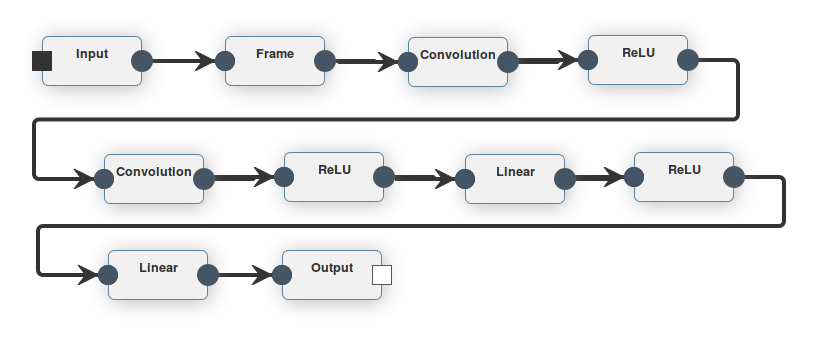
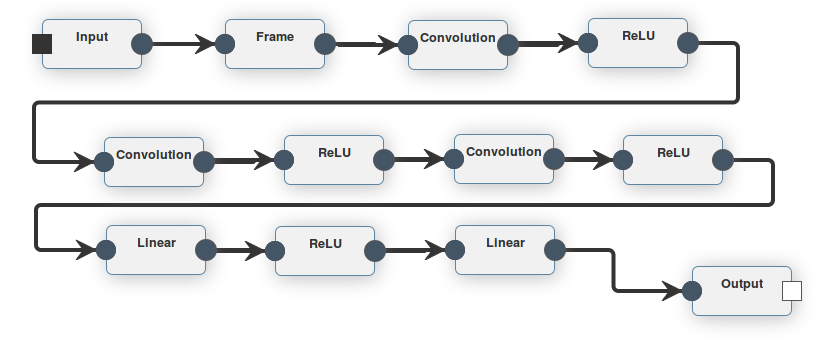
update the ALE example

diff --git a/dianne.examples.rl.ale/README.md b/dianne.examples.rl.ale/README.md
@@ -19,13 +19,13 @@ The experience pools are stored in the `experience` directory. We have specified
 	"maxSize": 10000
 }
 ```  
-There are 6 actions one can execute on the ALE environment. The state consists of 4 84x84 crops from the ALE game as specified in [1]. Depending on the memory your machine has available, you can increase the `maxSize` of your experience pool. In case memory is a limiting factor, you can also specify a `FileExperiencePool` type which will use memory-mapped files on the filesystem to store the experience samples. 
+There are 6 actions one can execute on the ALE environment. The state consists of 4 84x84 crops from the ALE game as specified in [1]. Depending on the memory your machine has available, you might want to increase the `maxSize` of your experience pool. In case memory is a limiting factor, you can also specify a `FileExperiencePool` type which will use memory-mapped files on the filesystem to store the experience samples, but this can slow down performance. 
 
 
 ## Creating a neural network
 
-We have provided a DQN neural network similar as described in [1]. The first hidden layer convolves 16 8x8 filters with stride 4, followed by a second hidden layer that convolves 32 4x4 filters with stride 2, each followed by a rectifier nonlinearity. Next a hidden layer is fully-connected with
-256 rectifier units with a final hidden layer that ends in the 6 outputs.
+We have provided a DQN neural network similar as described in [1]. The first hidden layer convolves 32 8x8 filters with stride 4, followed by a second hidden layer that convolves 64 4x4 filters with stride 2, and a third hidden layer convolves 64 3x3 filters with stride 1, each followed by a rectifier nonlinearity. Next a hidden layer is fully-connected with
+512 rectifier units with a final hidden layer that ends in the 6 outputs.
 
 ![DQN network](figures/dqn.png)
 
@@ -49,14 +49,26 @@ Point your browser to `http://localhost:8080/ale` to visualize the agent.
 Finally, start a learn job.
 
 ```
-learn DQN,DQN AtariPool strategy=DeepQLearningStrategy batchSize=32 discount=0.95 method=RMSPROP learningRate=1.0e-6 syncInterval=10000 clean=true tag=dqn
+learn DQN,DQN AtariPool strategy=DeepQLearningStrategy batchSize=32 discount=0.99 method=RMSPROP learningRate=1.0e-5 syncInterval=1000 clean=true tag=dqn
 ```
-Make sure to use the `DeepQLearningStrategy`, which requires two neural network instances, one for training and one for the target. Hence we specify DQN,DQN as neural networks. We use a batchsize of 32, discount factor of 0.95 and RMSPROP for updating the parameters. Each 10k steps we synchronize the neural network parameters with the repository, which will also synchronize the parameters with all agents (running with the same tag).
+Make sure to use the `DeepQLearningStrategy`, which requires two neural network instances, one for training and one for the target. Hence we specify DQN,DQN as neural networks. We use a batchsize of 32, discount factor of 0.99 and RMSPROP for updating the parameters. Each 1000 steps we synchronize the neural network parameters with the repository, which will also synchronize the parameters with all agents (running with the same tag).
 
 
 ## Done!
 
-Now sit back and relax. You can follow the progress in the DIANNE dashboard at `localhost:8080/dianne/dashboard`. As training proceeds you will see the Q values rise and the agent will start getting higher scores.
+Now sit back and relax. You can follow the progress in the DIANNE dashboard at `localhost:8080/dianne/dashboard`. As training proceeds you will see the Q values rise and the agent will start getting higher scores. Note: depending on your hardware, this can take a long time to train. If you don't have access to a beefed up GPU machine, take a look at the RL examples on OpenAI Gym.
+
+When looking at the graph of the train job, this shows the average max Q in a processed minibatch. If everything goes well this should start rising:
+
+![Q values of the train job](figures/q.png)
+
+The act job on the other hand reports the actual returns of the sequences played. As the trainig proceeds the agent should get higher scores:
+
+![Reward of the act job](figures/reward.png)
+
+The agent should also start doing more sensible actions:
+
+![Breakout gameplay after some training](figures/playing.gif)
 
 
 [[1]](https://arxiv.org/abs/1312.5602) Volodymyr Mnih, Koray Kavukcuoglu, David Silver, Alex Graves, Ioannis Antonoglou, Daan Wierstra, Martin A. Riedmiller, Playing Atari with Deep Reinforcement Learning.
